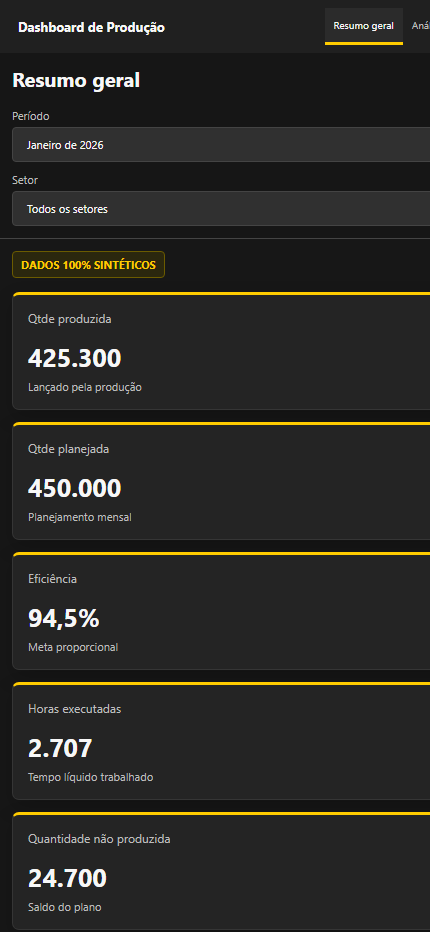
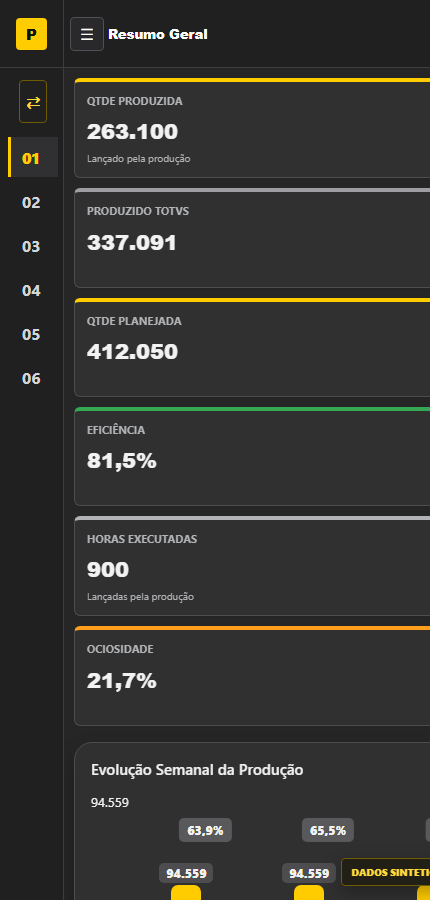
feat: expandir demonstracao interativa industrial

Changed region(s): [[0.0, 0.0, 1.0, 1.0], [0.9674, 0.0, 1.0, 0.0311]]

diff --git a/demo/demo-data.js b/demo/demo-data.js
@@ -1,0 +1,132 @@
+/* Dados integralmente sinteticos para a demonstracao publica. */
+window.DEMO_DATA = (() => {
+  const sectors = ["M1", "M2", "COLA", "ACABAMENTO"];
+  const machines = {
+    M1: ["INJ-01", "INJ-02", "INJ-04"],
+    M2: ["GRUPO ALFA", "GRUPO BETA"],
+    COLA: ["COL-01", "COL-02"],
+    ACABAMENTO: ["ACB-01", "ACB-03"]
+  };
+  const categories = ["COMPONENTE", "CONJUNTO", "ACABAMENTO", "EMBALAGEM"];
+  const people = ["Ana Lima", "Bruno Reis", "Carla Souza", "Diego Alves", "Elisa Martins", "Fabio Costa"];
+  const iso = day => `2026-06-${String(day).padStart(2, "0")}`;
+  const clamp = (value, min, max) => Math.max(min, Math.min(max, value));
+
+  const o = Array.from({ length: 36 }, (_, index) => {
+    const sector = sectors[index % sectors.length];
+    const machine = machines[sector][index % machines[sector].length];
+    const planned = 7800 + (index % 7) * 1250;
+    const produced = Math.round(planned * (0.68 + (index % 6) * 0.055));
+    return {
+      o: `OP-${String(26041 + index).padStart(5, "0")}`,
+      s: sector,
+      m: machine,
+      i: `IT-${String(310 + index).padStart(4, "0")}`,
+      it: categories[index % categories.length],
+      id: `Item demonstrativo ${String(index + 1).padStart(2, "0")}`,
+      md: sector === "M1" ? `ML-${11 + (index % 8)}` : "",
+      os: index % 9 === 0 ? "PENDENTE" : "LIBERADA",
+      dv: index % 11 === 0 ? "SEM_LANCAMENTO" : index % 7 === 0 ? "DIVERGENTE" : "OK",
+      pl: planned,
+      sys: produced + (index % 5 === 0 ? 180 : 0),
+      off: index % 11 === 0 ? 0 : produced
+    };
+  });
+
+  const p = [];
+  for (let day = 1; day <= 30; day += 1) {
+    sectors.forEach((sector, sIndex) => {
+      const order = o[(day * 3 + sIndex * 5) % o.length];
+      const resource = machines[sector][day % machines[sector].length];
+      const quantity = 1250 + ((day * 347 + sIndex * 811) % 1900);
+      p.push({ d: iso(day), s: sector, m: resource, t: `${1 + (day % 3)}º TURNO`, o: order.o, q: quantity, h: 7.2 + (day % 4) * 0.2, n: 1 + (day % 3) });
+    });
+  }
+
+  const c = [];
+  sectors.forEach((sector, sIndex) => machines[sector].forEach((machine, mIndex) => {
+    ["1º TURNO", "2º TURNO", "3º TURNO"].forEach((turn, tIndex) => {
+      const available = 152 + ((sIndex + mIndex + tIndex) % 4) * 12;
+      const productive = available * (0.71 + ((mIndex + tIndex) % 4) * 0.055);
+      c.push({ s: sector, m: machine, t: turn, rs: productive / available > 0.83 ? "ADEQUADO" : "ATENCAO", hd: available, hp: productive, hstop: available * 0.075, hsu: available * 0.035, cap: available * (680 + sIndex * 85) });
+    });
+  }));
+
+  const cd = [];
+  const hw = [];
+  for (let day = 1; day <= 30; day += 1) {
+    sectors.forEach((sector, sIndex) => {
+      const weekend = [0, 6].includes(new Date(`${iso(day)}T12:00:00`).getDay());
+      const hd = weekend ? 16 : 48 + sIndex * 4;
+      const hp = hd * (0.7 + ((day + sIndex) % 5) * 0.045);
+      cd.push({ d: iso(day), s: sector, hd, hp, hstop: hd * (0.045 + (day % 4) * 0.01), hsu: hd * 0.025, cap: hd * (650 + sIndex * 90) });
+      hw.push({ d: iso(day), s: sector, h: hd });
+    });
+  }
+
+  const tr = sectors.flatMap((sector, sIndex) => machines[sector].flatMap((resource, rIndex) =>
+    ["1º TURNO", "2º TURNO", "3º TURNO"].map((turn, tIndex) => ({
+      s: sector, r: resource, rt: sector === "M2" ? "PESSOA" : "MAQUINA", t: turn,
+      work: (rIndex + tIndex) % 4 === 3 ? "NAO" : "SIM", h: 118 + sIndex * 9 + tIndex * 14
+    }))
+  ));
+
+  const m = Array.from({ length: 24 }, (_, index) => {
+    const sector = sectors[index % sectors.length];
+    return {
+      d: iso(2 + (index % 27)), s: sector, m: machines[sector][index % machines[sector].length],
+      mt: index % 3 === 0 ? "CORRETIVA" : index % 3 === 1 ? "PREVENTIVA" : "AJUSTE",
+      mtd: index % 2 ? "MECANICA" : "ELETRICA",
+      sym: ["Oscilacao de temperatura", "Falha no sensor de seguranca", "Desgaste no conjunto de tracao", "Ajuste de pressao"][index % 4],
+      om: "", cnt: 1 + (index % 2), h: 1.4 + (index % 6) * 0.75, resp: 0.4 + (index % 3) * 0.3, exec: 1 + (index % 5) * 0.55
+    };
+  });
+
+  const g = [];
+  const gd = [];
+  for (let day = 1; day <= 30; day += 2) {
+    people.forEach((person, index) => {
+      const group = index < 3 ? "GRUPO ALFA" : "GRUPO BETA";
+      const quantity = 940 + ((day * 91 + index * 173) % 720);
+      const target = 1280 + (index % 3) * 90;
+      g.push({ d: iso(day), s: "M2", m: group, t: `${1 + (index % 2)}º TURNO`, i: `IT-${340 + index}`, it: categories[index % categories.length], g: group, e: person, at: "RATEIO_GRUPO", ph: 180, q: quantity, h: 7.5, meta: target });
+      gd.push({ d: iso(day), s: "M2", g: group, e: person, q: quantity, meta: target });
+    });
+  }
+
+  const u = people.slice(0, 4).map((person, index) => ({ d: iso(6 + index * 5), s: "M2", t: `${1 + (index % 2)}º TURNO`, e: person, h: 4 + index }));
+  const r = sectors.flatMap((sector, sIndex) => machines[sector].map((machine, index) => {
+    const hd = 430 + sIndex * 35;
+    const hn = 320 + index * 44 + sIndex * 18;
+    const planned = 128000 + sIndex * 31000 + index * 17000;
+    const produced = planned * (0.72 + ((sIndex + index) % 4) * 0.06);
+    return { s: sector, m: machine, hd, hn, cap: hd * (650 + sIndex * 80), pl: planned, prod: produced, saldo: planned - produced, pct: produced / planned, hidle: Math.max(hd - hn, 0), pidle: Math.max(planned - produced, 0), ocup: hn / hd, rs: hn / hd > 0.9 ? "CRITICO" : hn / hd > 0.78 ? "ATENCAO" : "ADEQUADO" };
+  }));
+
+  const monthNames = ["Julho 2025", "Agosto 2025", "Setembro 2025", "Outubro 2025", "Novembro 2025", "Dezembro 2025", "Janeiro 2026", "Fevereiro 2026", "Marco 2026", "Abril 2026", "Maio 2026", "Junho 2026"];
+  const ms = monthNames.flatMap((label, monthIndex) => sectors.map((sector, sIndex) => {
+    const year = monthIndex < 6 ? 2025 : 2026;
+    const month = ((monthIndex + 6) % 12) + 1;
+    const planned = 155000 + sIndex * 29000 + monthIndex * 5200;
+    const percentage = clamp(0.73 + monthIndex * 0.017 + sIndex * 0.014, 0, 1.03);
+    return { d: `${year}-${String(month).padStart(2, "0")}-01`, mo: `${year}-${String(month).padStart(2, "0")}`, lab: label, s: sector, hp: 980 + sIndex * 110 + monthIndex * 24, he: 74 + sIndex * 9 + monthIndex * 3, ht: 1160 + sIndex * 120 + monthIndex * 28, func: 31 + sIndex * 6 + (monthIndex % 3), pl: planned, prod: planned * percentage, np: Math.max(planned * (1 - percentage), 0), pct: percentage };
+  }));
+
+  const a = Array.from({ length: 18 }, (_, index) => {
+    const sector = sectors[index % sectors.length];
+    return { d: iso(3 + (index % 26)), s: sector, m: machines[sector][index % machines[sector].length], o: o[index].o, i: o[index].i, typ: ["META_NAO_IDENTIFICADA", "SETOR_DIVERGENTE", "DURACAO_INVALIDA", "QUANTIDADE_INVALIDA"][index % 4], sev: index % 5 === 0 ? "CRITICA" : index % 3 === 0 ? "ATENCAO" : "INFORMATIVA", base: index % 2 ? "PRODUCAO" : "ORDENS", col: index % 2 ? "META" : "SETOR", act: "Validar o cadastro e reconciliar a ordem antes do fechamento." };
+  });
+
+  return {
+    p, o, c, r, ms, cd, hw, tr, m, g, gd, u, a,
+    meta: {
+      updated: "2026-06-30 18:00", prodRows: p.length, orderRows: o.length, maintRows: m.length, groupRows: g.length,
+      qOff: p.reduce((sum, row) => sum + row.q, 0), qSys: o.reduce((sum, row) => sum + row.sys, 0), plan: o.reduce((sum, row) => sum + row.pl, 0),
+      hExec: p.reduce((sum, row) => sum + row.h, 0), hAvail: c.reduce((sum, row) => sum + row.hd, 0), hProd: c.reduce((sum, row) => sum + row.hp, 0),
+      hMaint: m.reduce((sum, row) => sum + row.h, 0), hSetup: c.reduce((sum, row) => sum + row.hsu, 0), capacity: c.reduce((sum, row) => sum + row.cap, 0),
+      people: people.length, personQ: g.reduce((sum, row) => sum + row.q, 0), personMeta: g.reduce((sum, row) => sum + row.meta, 0), alerts: a.length,
+      maintCount: m.reduce((sum, row) => sum + row.cnt, 0), hoursAbsent: u.reduce((sum, row) => sum + row.h, 0), hoursIdle: r.reduce((sum, row) => sum + row.hidle, 0),
+      execHoursPct: 0.824, expectedToday: 0.967, idlePct: 0.142, idlePieces: r.reduce((sum, row) => sum + row.pidle, 0), refugo: false
+    }
+  };
+})();

diff --git a/README.md b/README.md
@@ -21,9 +21,13 @@ A solução permite investigar perguntas como:
 
 ## Demonstração
 
-[Abrir demonstração interativa](https://nnathanvieira.github.io/calendario-fabril-dashboard-producao/demo/dashboard_demo.html)
+[Abrir dashboard de Produção](https://nnathanvieira.github.io/calendario-fabril-dashboard-producao/demo/dashboard_demo.html) · [Abrir Análise Crítica](https://nnathanvieira.github.io/calendario-fabril-dashboard-producao/demo/analise_critica.html)
 
-A demonstração independente permite alternar entre o resumo da produção e a análise crítica, além de filtrar período e setor. Todo o conteúdo é sintético.
+A demonstração reproduz a mesma composição do visual HTML Content usado no Power BI. São onze páginas interligadas, com filtros por período, setor, máquina, turno, ordem, item, grupo e funcionário. Todo o conteúdo publicado é sintético.
+
+**Produção:** Resumo Geral, Produção Real, Comparativo de Meses, Manutenção, Refugo e Pessoas e Grupos.
+
+**Análise:** Análise Crítica, Capacidade, Calendário Fabril, Alertas e Auditoria.
 
 | Resumo geral | Análise crítica |
 | --- | --- |
@@ -78,8 +82,10 @@ O modelo usa dimensões conformadas para data, ordem, item, máquina, turno, mol
 
 ```text
 demo/
-  dashboard_demo.html       demonstração interativa e sintética
-  dados_sinteticos.json     amostra estrutural sem dados reais
+  dashboard_demo.html       operação e produção
+  analise_critica.html      capacidade, alertas e auditoria
+  demo-data.js              massa sintética compartilhada
+  build-demo.ps1            gera as demos a partir do HTML Content
 docs/
   ARQUITETURA.md            fluxo técnico e responsabilidades
   PRIVACIDADE.md            política de anonimização